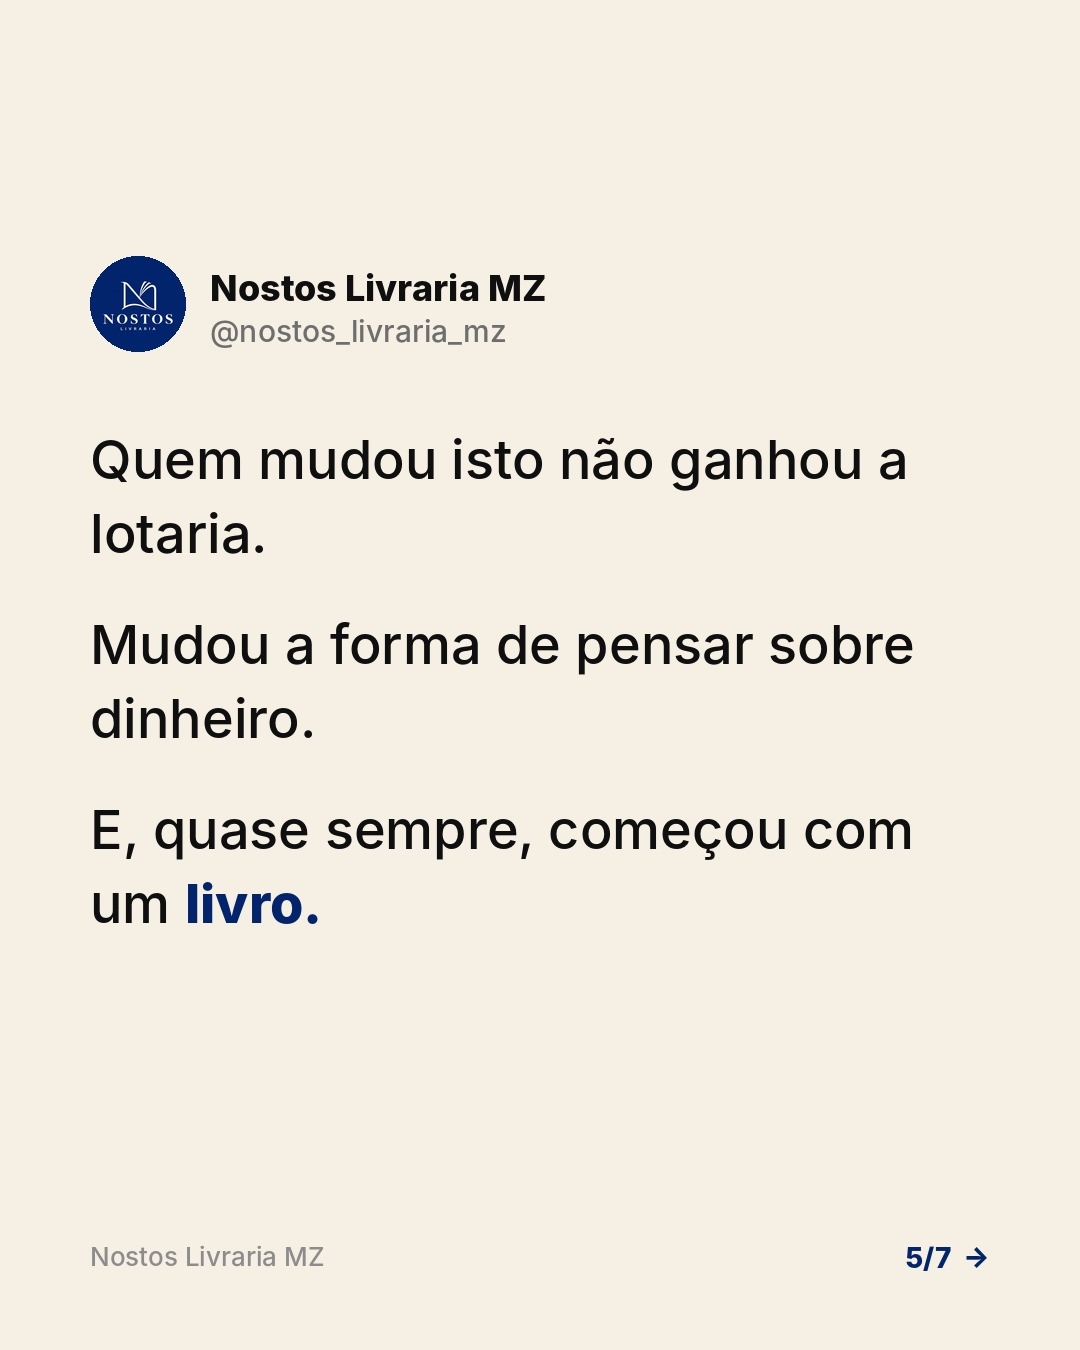
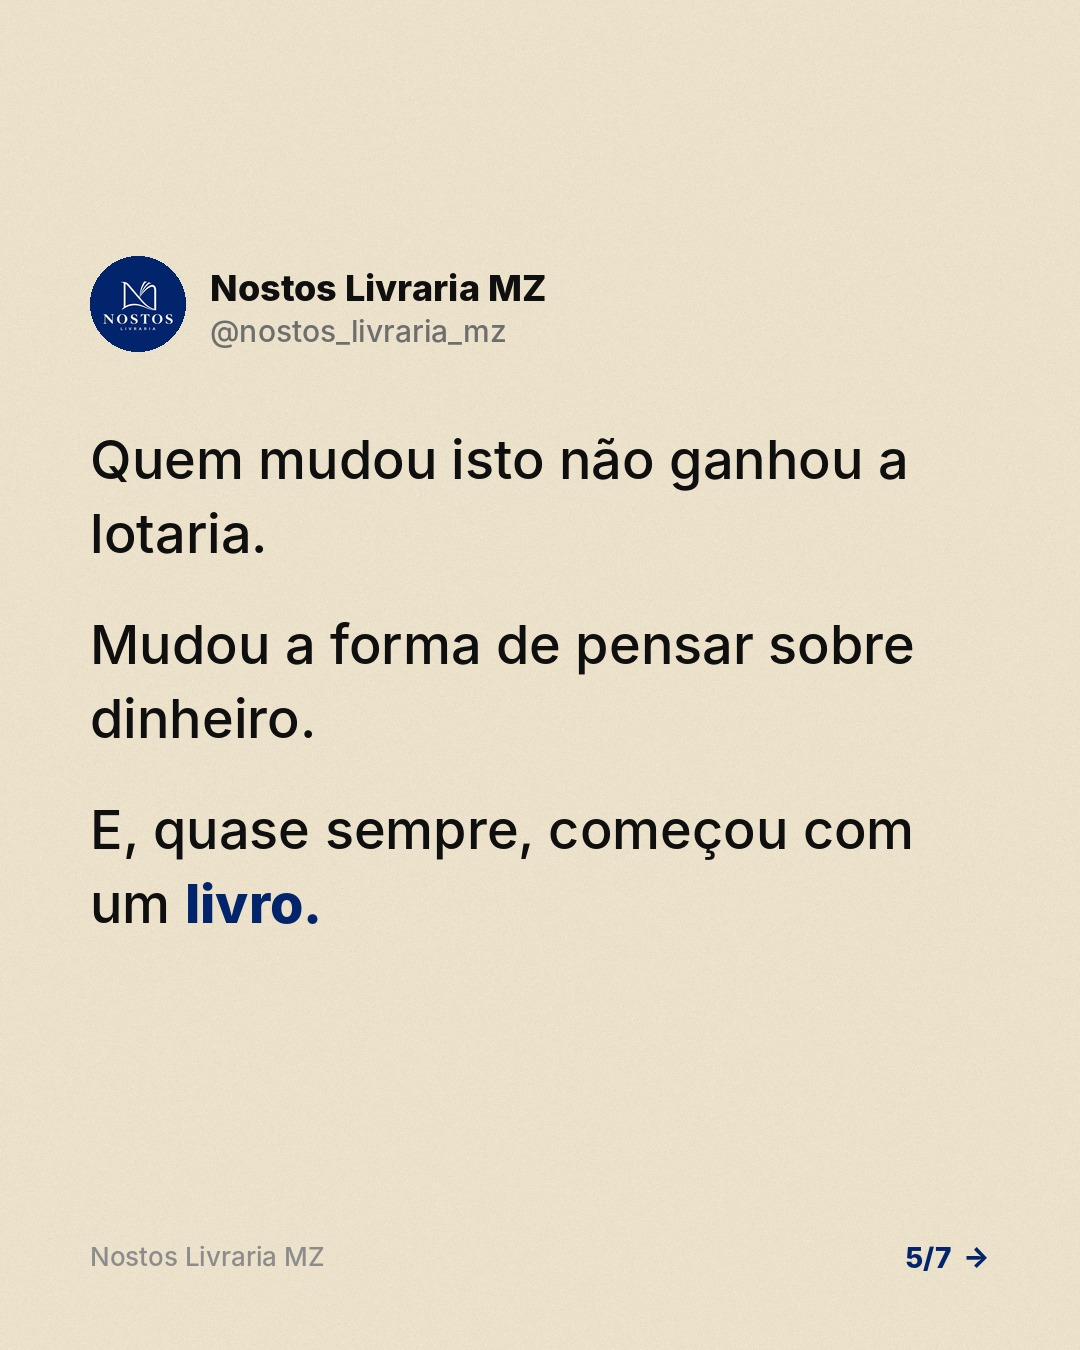
Fundo creme quente de papel de livro com grão subtil
Claude-Session: https://claude.ai/code/session_01158HqZBK5N8s9ruNUS9Jgj

diff --git a/engine/render.py b/engine/render.py
@@ -28,7 +28,7 @@ INK = (34, 29, 24)
 RED = (2, 36, 108)  # azul Nostos (cor do logo); nome mantido por compatibilidade
 NAVY = RED
 LOGO_CREME = (251, 248, 240)
-BEIGE = (246, 240, 228)  # creme (#F6F0E4), fundo padrão do estilo nota
+BEIGE = (236, 225, 202)  # creme quente de papel de livro (#ECE1CA), fundo padrão do estilo nota
 GREY = (110, 104, 96)
 SIZES = {"feed": (1080, 1350), "story": (1080, 1920)}
 WA = "WhatsApp 87 943 1217"
@@ -447,10 +447,14 @@ def nota_draw(W, H, p, n, total):
             y += box_h
     # centrar o bloco (cabeçalho + texto) na vertical
     content_h = int(y)
-    img = Image.new("RGB", (W, H), bg)
+    rng = np.random.default_rng(7)
+    grain = np.array(bg, float)[None, None, :] + rng.normal(0, 2.2, (H, W, 1))
+    img = Image.fromarray(np.clip(grain, 0, 255).astype(np.uint8))
     area = H - (260 if story else 150)
     top = max(90, int((area - content_h) / 2))
-    img.paste(canvas.crop((0, 0, W, content_h + 10)), (0, top))
+    crop = canvas.crop((0, 0, W, content_h + 10))
+    cm = np.array(crop, float); diff = np.abs(cm - np.array(bg, float)).sum(2)
+    img.paste(crop, (0, top), Image.fromarray((np.clip(diff * 40, 0, 255)).astype(np.uint8)))
     d = ImageDraw.Draw(img)
     # rodapé
     fy = H - (260 if story else 110)

diff --git a/CLAUDE.md b/CLAUDE.md
@@ -51,7 +51,7 @@ Ler primeiro `data/brand.md`, `data/catalogo.md`, `data/insights.md` e as últim
 - **Penúltima/última**: livro do catálogo dos anúncios (quando fizer sentido) + CTA (guardar, enviar a alguém,
   comentar, WhatsApp).
 - Estilos, alternar:
-  - `nota` (fundo creme #F6F0E4 – nunca branco puro –, a Nostos a escrever, tipo publicação)
+  - `nota` (fundo creme #ECE1CA (papel de livro) – nunca branco puro –, a Nostos a escrever, tipo publicação)
     – **o principal (~50%)**. Texto limpo e elegante, sem sombras.
     Usar `highlight` para 1–3 palavras-chave em azul Nostos e `book` para mostrar um livro do catálogo.
   - `design` (creme, frases fortes) – ~25%.
